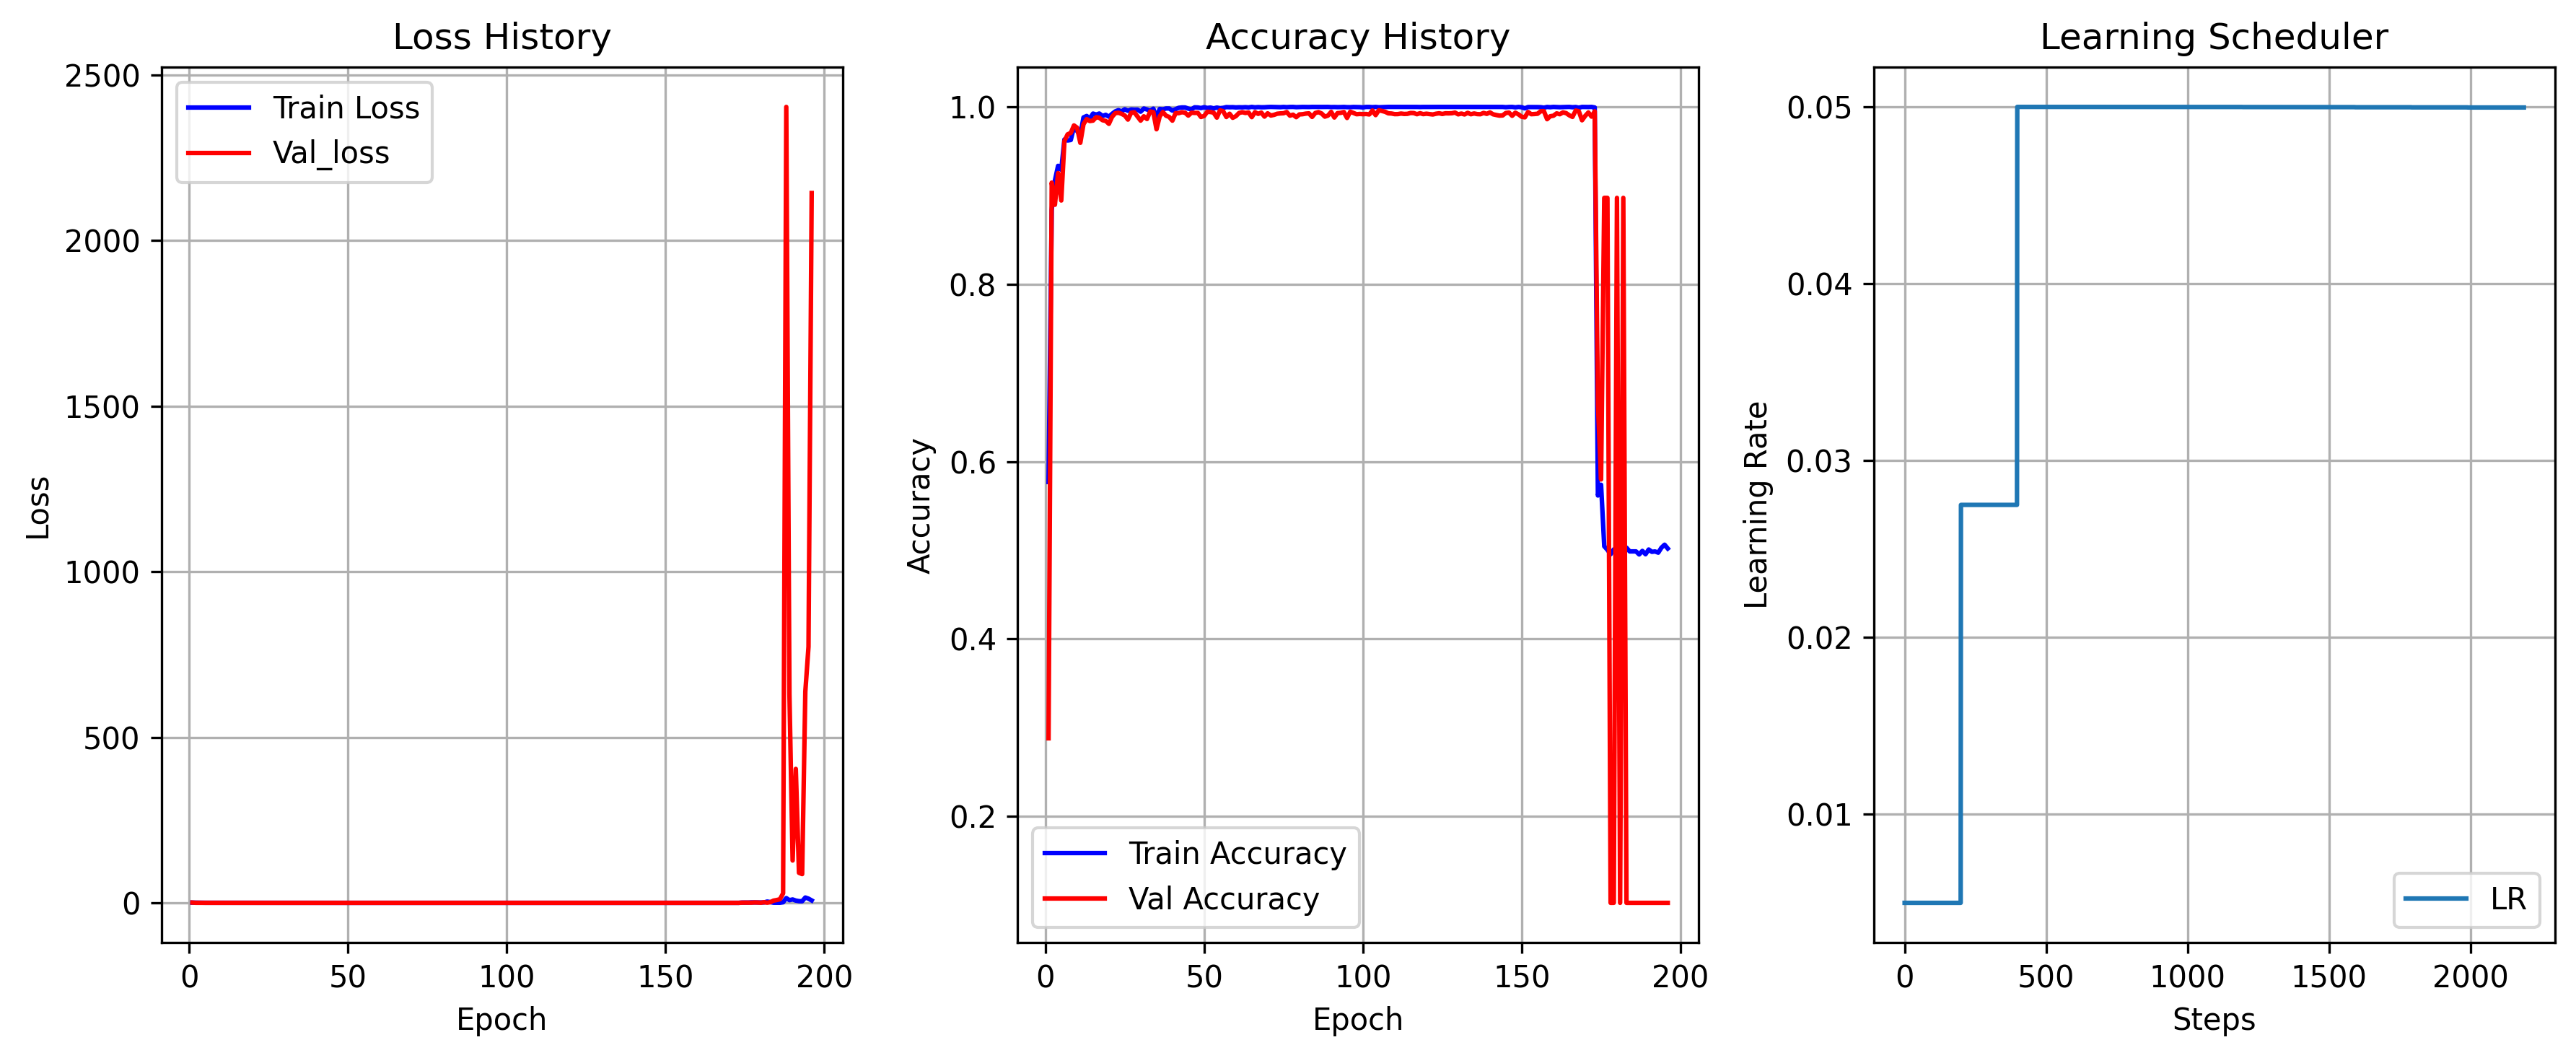
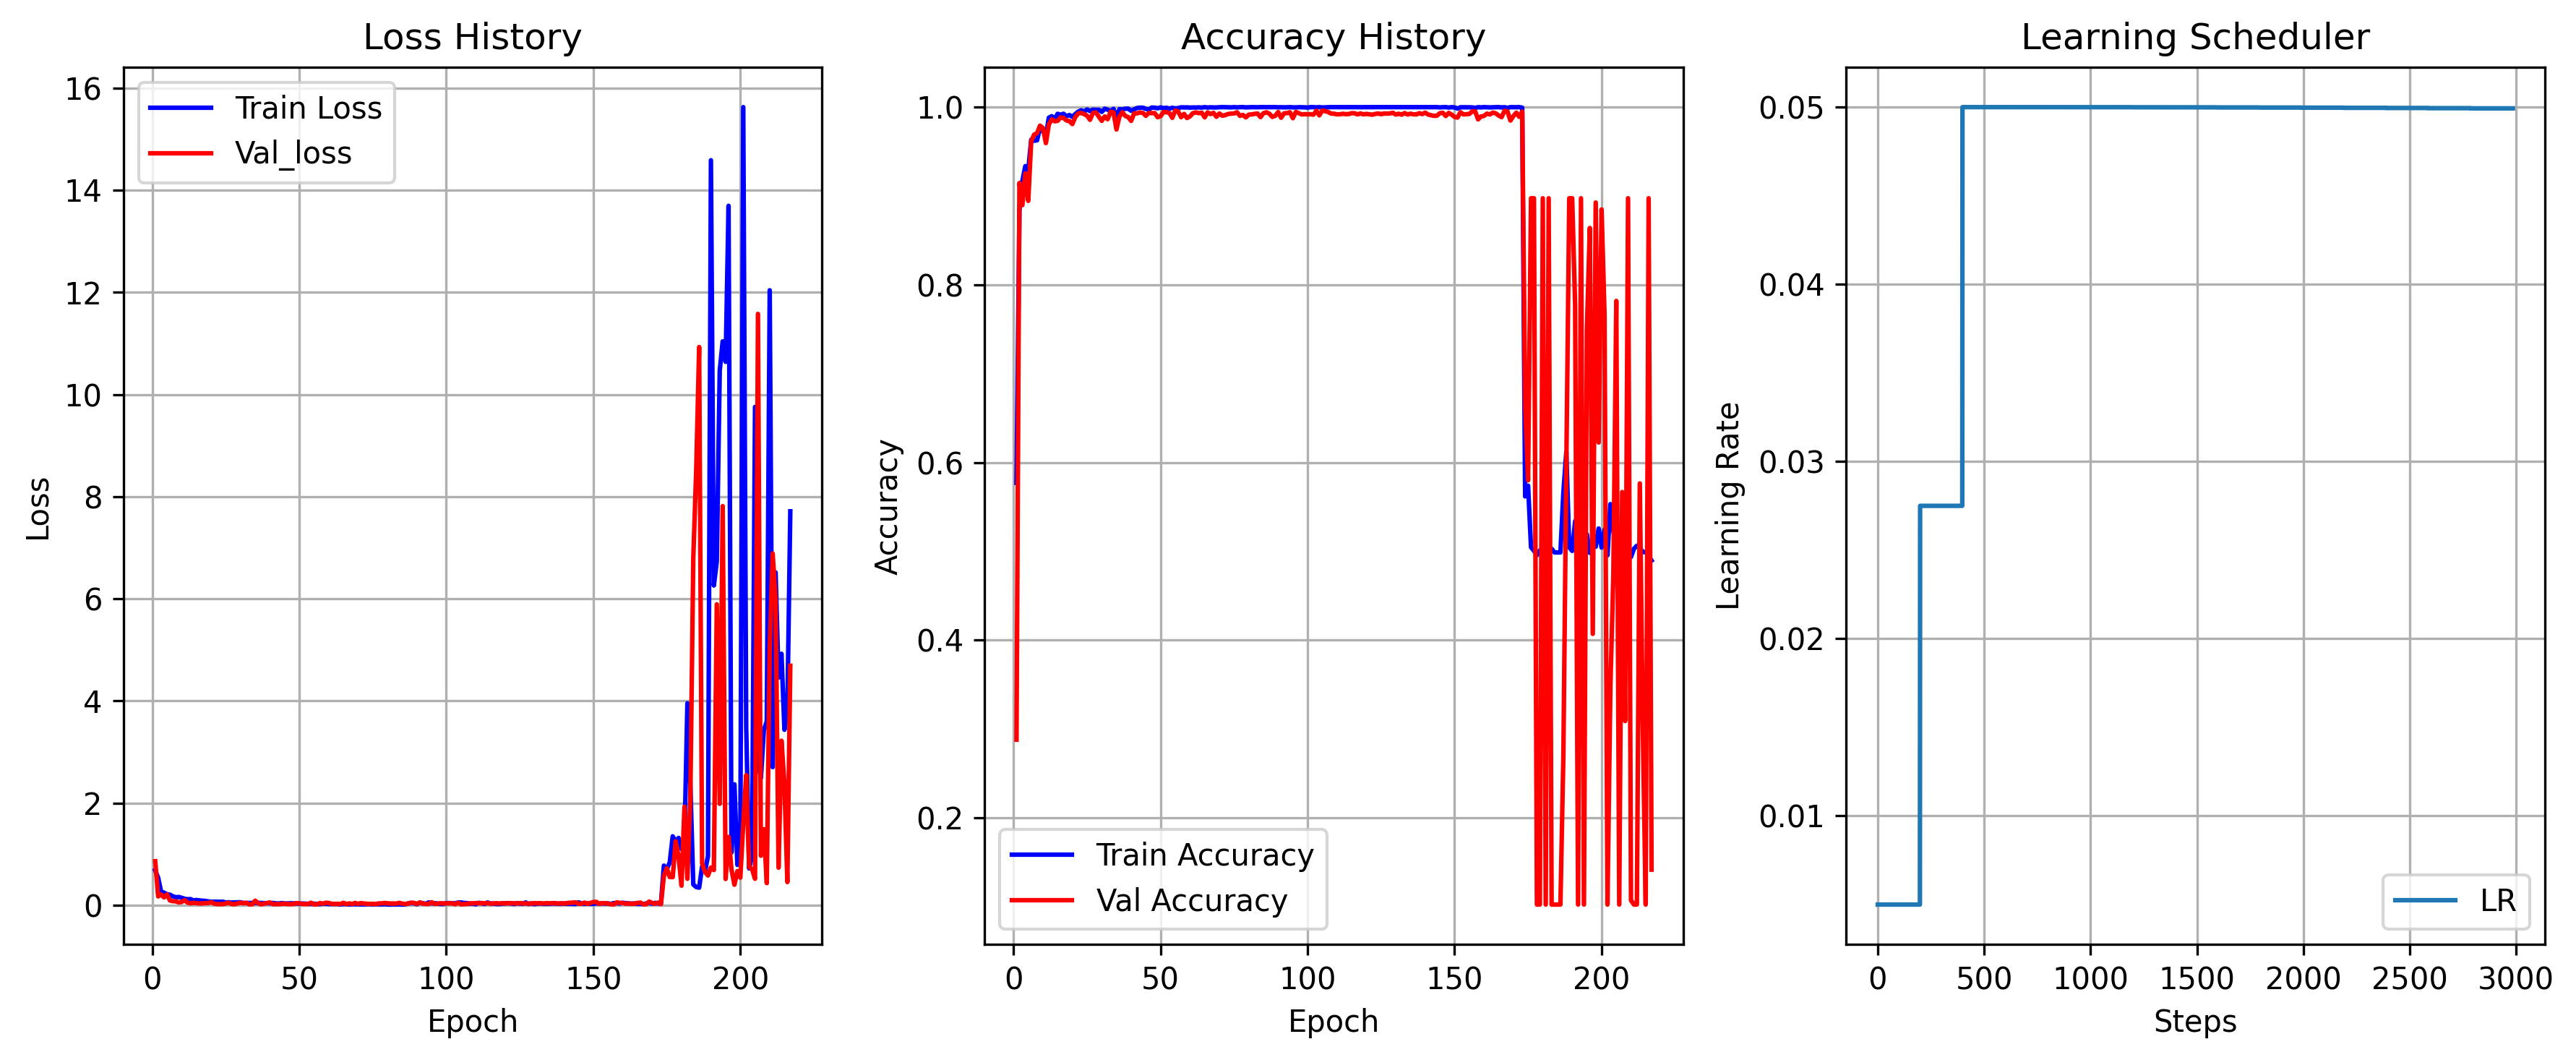
Final Commit
All Fine Tuning phase completed for models

diff --git a/Scripts/evaluation.py b/Scripts/evaluation.py
@@ -116,7 +116,7 @@ class Evaluation_metric:
     #Save Leaderboard Metric
     def save_leaderboard_metric(self, eer_value, test_acc, roc_value):
         #Define json path and model name variable
-        json_path = "leaderboard_PreFineTuning.json"
+        json_path = "leaderboard_AfterFineTuning.json"
         model_name = self.model_name
 
         #Read existing JSON database if it exist
@@ -129,27 +129,27 @@ class Evaluation_metric:
                     pass
         
         #Check if we should update(if model is new, or if current EER is better/equal)
-        # if eer_value > 0:
-        #     should_update = True
-        #     if model_name in leaderboard_data:
-        #         older_eer = leaderboard_data[model_name].get("Test EER (%)", 100.0)
+        if eer_value > 0:
+            should_update = True
+            if model_name in leaderboard_data:
+                older_eer = leaderboard_data[model_name].get("Test EER (%)", 100.0)
 
-        #         if eer_value > older_eer:
-        #             should_update = False
+                if eer_value > older_eer:
+                    should_update = False
 
-        #     if should_update:
-        #         leaderboard_data[model_name] = {
-        #         "Highest Val Acc": float(self.highest_val_acc),
-        #         "Test Acc": float(test_acc),  #calibrated accuracy
-        #         "Test ROC-AUC": float(roc_value),
-        #         "Test EER (%)": float(eer_value),
-        #         "Training Time (s)": float(self.total_training_time) # Captured from timer
-        #         }
+            if should_update:
+                leaderboard_data[model_name] = {
+                "Highest Val Acc": float(self.highest_val_acc),
+                "Test Acc": float(test_acc),  #calibrated accuracy
+                "Test ROC-AUC": float(roc_value),
+                "Test EER (%)": float(eer_value),
+                "Training Time (s)": float(self.total_training_time) # Captured from timer
+                }
             
 
-        #     # Write back out to the master ledger file
-        #     with open(json_path, "w", encoding="utf-8") as f:
-        #         json.dump(leaderboard_data, f, indent=4)
+            # Write back out to the master ledger file
+            with open(json_path, "w", encoding="utf-8") as f:
+                json.dump(leaderboard_data, f, indent=4)
 
         return json_path
 
@@ -246,7 +246,7 @@ class Evaluation_metric:
 
     #Plot Speed vs Accuracy graph
     def Plot_Speed_Accuracy(self,
-                            json_path = "leaderboard_PreFineTuning.json"):
+                            json_path = "leaderboard_AfterFineTuning.json"):
         
         #Check if the file exist or not
         if not os.path.exists(json_path):
@@ -302,7 +302,7 @@ class Evaluation_metric:
         
         
         plt.tight_layout()
-        save_path = r'D:\Deep Neural Network\ML-Audio_DeepFake\Evaluation\Graph\Speed_Vs_Accuracy_Frontier_PreFineTuning.svg'
+        save_path = r'D:\Deep Neural Network\ML-Audio_DeepFake\Evaluation\Graph\Speed_Vs_Accuracy_Frontier_AfterFineTuned.svg'
         plt.savefig(
             save_path, 
             dpi=300, 

diff --git a/Scripts/Trainer/Trainer.py b/Scripts/Trainer/Trainer.py
@@ -118,8 +118,8 @@ class ModelTrainer(nn.Module):
         teacher_resnet.eval()
 
         #Freeze the teacher
-        # for param in teacher_resnet.parameters():
-        #     param.requires_grad = False
+        for param in teacher_resnet.parameters():
+            param.requires_grad = False
 
         return teacher_resnet
 

diff --git a/Scripts/Main.py b/Scripts/Main.py
@@ -47,7 +47,7 @@ def main():
     deit = DEIT.DEIT(config)
 
     #Track of active model
-    active_model = Resnet_18    
+    active_model = deit    
 
     #Initialize Trainer and run the epochs
     trainer = Trainer.ModelTrainer(model=active_model, 

diff --git a/Scripts/Trainer/Optimizer.py b/Scripts/Trainer/Optimizer.py
@@ -38,7 +38,7 @@ def get_swin_optimizer(model, base_lr = 5e-6, decay_rate=1.0):
     optimizer = torch.optim.AdamW(parameters_group, weight_decay=1.0)
     return optimizer
 
-def get_vit_or_deit_optimizer(model, base_lr=5e-6, decay_rate=1.0):
+def get_vit_or_deit_optimizer(model, base_lr=2e-5, decay_rate=1.0):
     parameters_group = []
     
     # 1. Patch Embeddings & Positional Embeddings (Lowest LR)

diff --git a/Scripts/config.py b/Scripts/config.py
@@ -33,7 +33,7 @@ class AudioConfig:
      input_layer_channels : list = field(default_factory = lambda:[32,64,128])
 
      #--------------------Training and Optimization-------------------------
-     batch_size: int = 64
+     batch_size: int = 128
      learning_rate: float = 2e-5
      n_epochs : int = 500
      start_from_checkpoint : bool = True